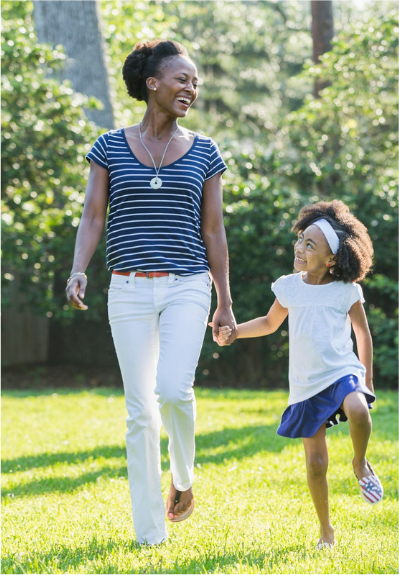
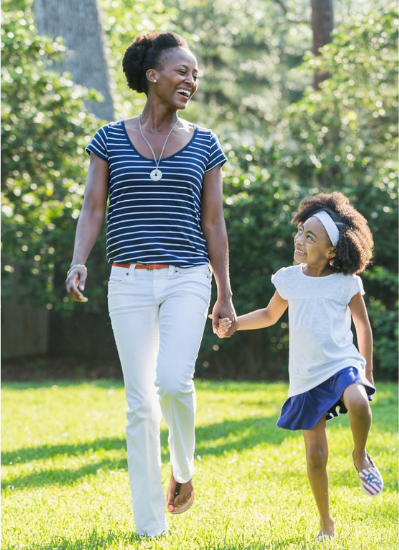
updated the home page feature image layout. Resized images to enhance new layout. Added two new images to the layout to remove extra white space on larger monitors and generally fill the space more. Swapped swimsuit image as resizing wasn't asthetically pleasing. fixed the spacing issue where the sc

diff --git a/index.html b/index.html
@@ -42,7 +42,7 @@
   </div>
 
 <navigation>
-  <div class="clear"></div>
+ <div class="clear"></div>
 
     <div class="navbar" id="mynavbar">
       <a class="active" href="#">HOME - What's New!</a>
@@ -51,7 +51,7 @@
       <a href="#">Accessories</a>
       <a href="#">Dresses</a>
       <a href="#">Swimwear</a>
-      <a href="#">Intimates</a>
+      <a href="#">Athleticwear</a>
       <a href="#">SALE</a>
      <a href="javascript:void(0);" class="icon" onclick="myFunction()">
           <i class="fa fa-bars"></i>
@@ -72,7 +72,7 @@
 </navigation>
 
   <div class="clear"></div>
-  <main>
+  <div class="main">
     <!-- <a class="image-link" href="https://cdn.pixabay.com/photo/2015/01/21/13/21/sale-606687__340.png">open popup</a> -->
     <!--Delayed Popup-->
     <div id="newsletter-form" class="white-popup mfp-hide">
@@ -85,31 +85,53 @@
 
     </div>
     <!--End Delayed Popup-->
-    <div class="photo-grid-container clearfix">
-      <div class="photo-grid">
-        <div class="photo-grid-item first-item">
-          <img src="images/daytime.png" alt="daytime">
+
+    <!-- Portfolio Gallery Grid -->  
+<div class="feature-row">
+    <div class="feature-column">
+      <div class="feature-content">
+       <a href="#"><img src="images/daytime.png" alt="Daytime Outfit" style="width:100%"></a>
+      </div>
+    </div>
+    <div class="feature-column">
+      <div class="feature-content">
+        <a href="#"><img src="images/dresses.png" alt="Beautiful Dress" style="width:100%"></a>
+      </div>
+    </div>
+    <div class="feature-column">
+      <div class="feature-content">
+       <a href="#"><img src="images/nightlife.png" alt="An Evening Outfit" style="width:100%"></a>
+      </div>
+    </div>
+    <div class="feature-column">
+      <div class="feature-content">
+        <a href="#"><img src="images/shorts.jpg" alt="Stylish Shorts" style="width:100%"></a>
+      </div>
+    </div>
+  </div>
+  <div class="feature-row">
+      <div class="feature-column">
+        <div class="feature-content">
+         <a href="#"><img src="images/swimsuit.jpg" alt="Swim Style for the Beach" style="width:100%"></a>
         </div>
-        <div class="photo-grid-item">
-          <img src="images/dresses.png" alt="dresses">
+      </div>
+      <div class="feature-column">
+        <div class="feature-content">
+          <a href="#"><img src="images/sportswear.png" alt="Athletic Attire for All" style="width:100%"></a>
         </div>
-        <div class="photo-grid-item">
-          <img src="images/nightlife.png" alt="nightlife">
-         </div>
-        <div class="photo-grid-item">
-          <img src="images/swimsuits.png" alt="swimwear">
+      </div>
+      <div class="feature-column">
+        <div class="feature-content">
+          <a href="#"><img src="images/fourth_of_july.png" alt="Style for Family Time" style="width:100%"></a>
         </div>
-        <div class="photo-grid-item">
-          <img src="images/sportswear.png" alt="sportswear">
-        </div>
-        <div class="photo-grid-item">
-          <img src="images/fourth_of_july.png" alt="4th of july">
+      </div>
+      <div class="feature-column">
+        <div class="feature-content">
+          <a href="#"><img src="images/shorts2.jpg" alt="Style for the Errand Run" style="width:100%"></a>
         </div>
       </div>
     </div>
-  </main>
-
-  <div class="clear"></div>
+  </div>
   
   <div class="blog-row">
     <div class="blog-column blog-left">
@@ -143,7 +165,6 @@
       </div>
     </div>
   </div>
-
 
   <footer>
     <div>

diff --git a/css/body.css b/css/body.css
@@ -1,7 +1,7 @@
 .clear{
     clear:right;
   }
-
+/*
 .photo-grid-container{
   display: flex;
   overflow: auto;
@@ -26,4 +26,60 @@
   content: "";
   display: table;
   clear: both;
+}
+
+*/
+
+* {
+  box-sizing: border-box;
+}
+
+
+/* Center website */
+.main {
+  max-width: 1000px;
+  margin: auto;
+}
+
+.feature-row {
+  margin: 8px -16px;
+}
+
+/* Add padding BETWEEN each column (if you want) */
+.feature-row,
+.feature-row > .feature-column {
+  padding: 8px;
+}
+
+/* Create four equal columns that floats next to each other */
+.feature-column {
+  float: left;
+  width: 25%;
+}
+
+/* Clear floats after rows */ 
+.feature-row:after {
+  content: "";
+  display: table;
+  clear: both;
+}
+
+/* Content */
+.feature-content {
+  background-color: white;
+  padding: 10px;
+}
+
+/* Responsive layout - makes a two column-layout instead of four columns */
+@media screen and (max-width: 900px) {
+  .feature-column {
+    width: 50%;
+  }
+}
+
+/* Responsive layout - makes the two columns stack on top of each other instead of next to each other */
+@media screen and (max-width: 600px) {
+  .feature-column {
+    width: 100%;
+  }
 }

diff --git a/css/header.css b/css/header.css
@@ -3,8 +3,7 @@
   border: 1px solid red;
 } */
 .top-nav-header {
-  margin: 0 2px;
-  /* border: 1px solid red; */
+  margin: 5px 15px;
   height: 40px;
   display: flex;
   flex-direction: row;
@@ -13,8 +12,6 @@
 }
 
 .top-nav-header img {
-  /* border: 1px solid red; */
-    /* object-fit: scale-down; */
     height: 40px;
 
 }
@@ -81,7 +78,7 @@
     border: 3px solid #FF8B3F ;
     border-right: none;
     padding: 5px;
-    height: 20px;
+    height: 36px;
     border-radius: 5px 0 0 5px;
     outline: none;
     color: #9DBFAF;
@@ -105,7 +102,7 @@
 
   .search-container {
     /* border: 1px solid red; */
-    margin-right: 2px;
+    margin-right: 15px;
     margin-top: 5px;
     background-color: rgba(82, 88, 110, 0.6);
   }

diff --git a/css/blog-test.css b/css/blog-test.css
@@ -8,6 +8,7 @@
 
 .blog-row {
     background-color: #dddddd;
+    margin: auto;
 }
 
 .blog-column {
@@ -19,9 +20,10 @@
   }
   
   .blog-left {
-    width: 60%;
+    width: 70%;
     font-size: 1em;
     margin: 0 auto;
+    padding: 40px;
   }
 
   .blog-left h3 {
@@ -32,6 +34,7 @@
     width: 30%;
     font-size: 0.8em;
     margin: 0 auto;
+    padding: 40px;
   }
   
   /* Clear floats after the columns */
